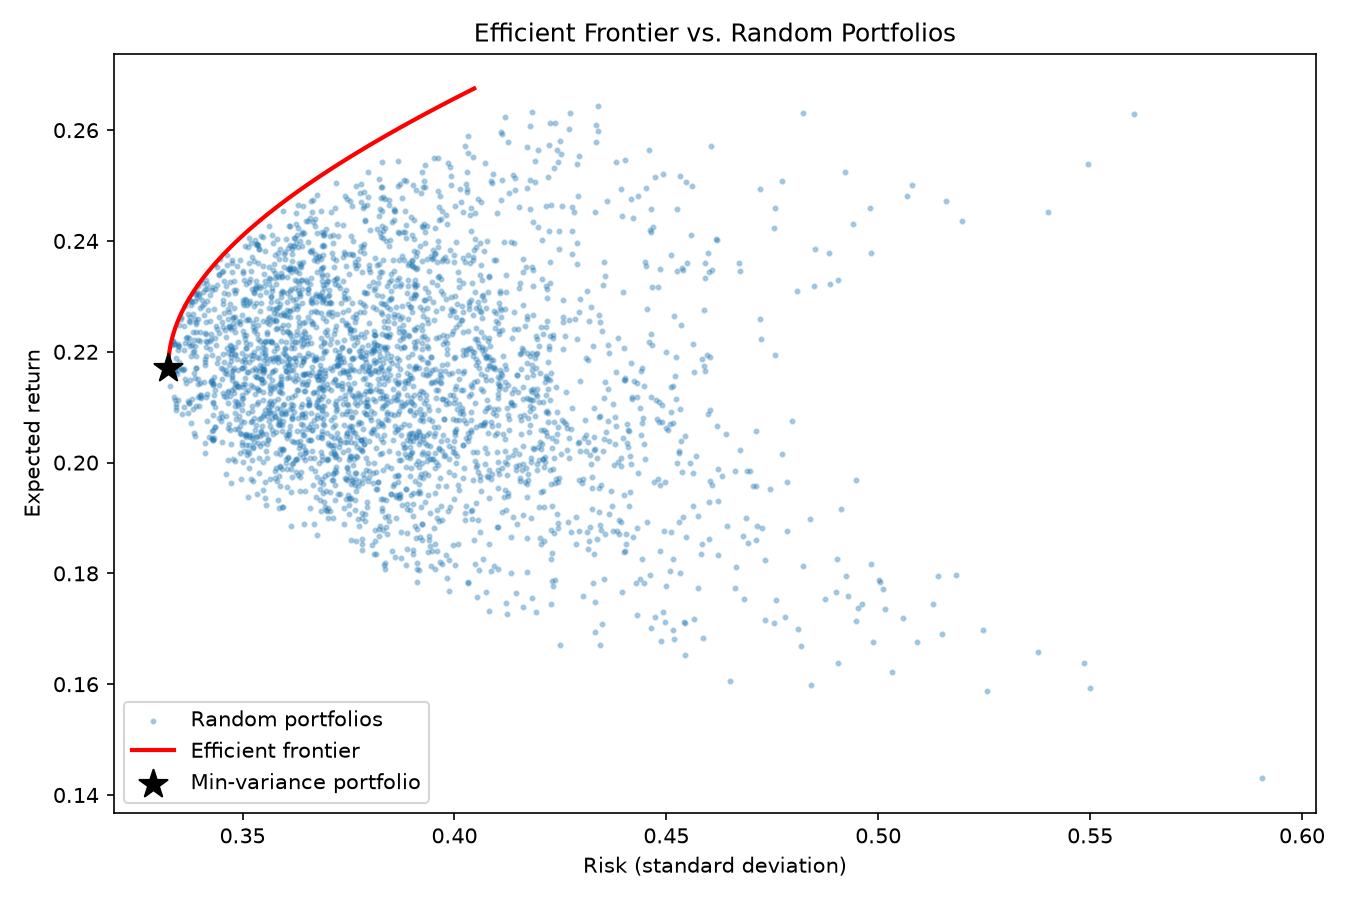
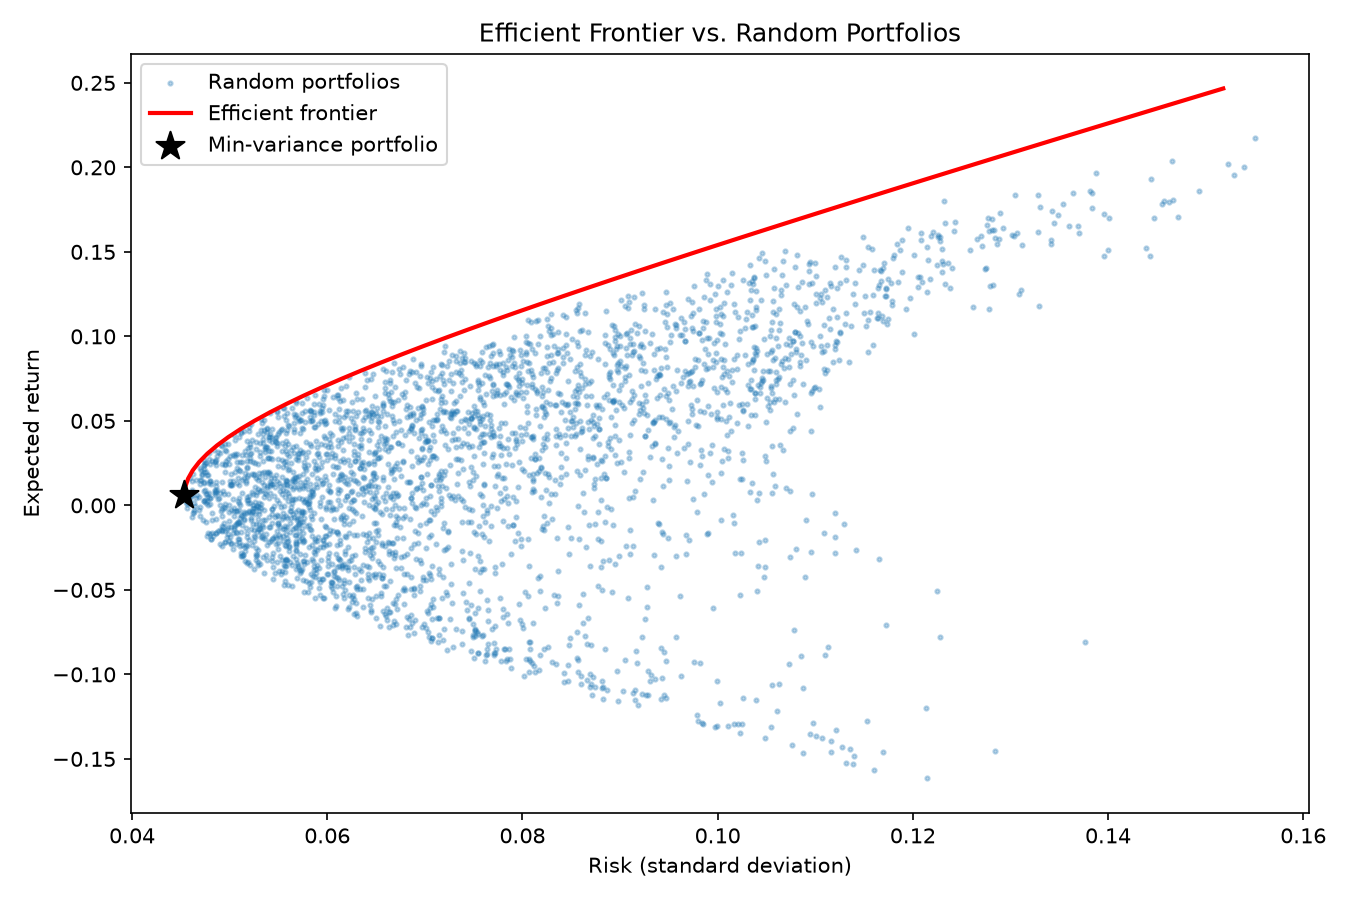
Refactor README and implement backtesting functionality
- Updated README for clarity and consistency in terminology.
- Added backtesting and rolling backtesting features in main.py.
- Introduced backtest.py for backtesting optimal weights against naive strategy.
- Renamed optimizer.py to optimiser.py for consistency with British English.
- Added efficient_frontier.png and rolling_backtest.png for visual representation of results.

diff --git a/portfolio/backtest.py b/portfolio/backtest.py
@@ -1,0 +1,146 @@
+"""
+backtest.py
+
+The other files in this program help us choose the optimal weights
+given my and Sigma. This file helps us backtest the optimal weights
+based on data the optimiser never uses.
+
+The backtest finds mu and Sigma from one window (training), then 
+applies the optimal weights to a later window (test) that the optimiser
+has not accessed. This allows us to check whether previously "optimal" 
+weights still work going forward.
+"""
+
+import numpy as np
+
+from portfolio.stats import compute_returns, expected_returns, covariance_matrix
+from portfolio.optimiser import min_variance_portfolio
+
+
+def backtest(prices, train_days=250, test_days=60):
+    """
+    Fits Sigma on a training window, computes the global min-variance
+    weights from it , then applies those FIXED weights to a later, held-out 
+    test window and compares realised performance against a naive equal-weight 
+    portfolio.
+
+    prices: DataFrame of prices (rows = dates, columns = assets),
+        must have at least train_days + test_days + 1 rows (the +1
+        is because compute_returns drops the first day).
+    train_days, test_days: length of the fit window and the
+        held-out evaluation window, in trading days.
+
+    Returns a dict of realised daily mean return and volatility
+    (standard deviation) for both the optimised and naive portfolios
+    over the test window, plus the fitted weights themselves.
+    """
+    returns = compute_returns(prices)
+
+    if len(returns) < train_days + test_days:
+        raise ValueError(
+            f"Not enough data: need {train_days + test_days} days of "
+            f"returns, got {len(returns)}."
+        )
+
+    train = returns.iloc[:train_days]
+    test = returns.iloc[train_days:train_days + test_days]
+
+    cov = covariance_matrix(train, annualize=False)
+    w_opt = min_variance_portfolio(cov)
+
+    n = cov.shape[0]
+    w_naive = np.ones(n) / n  # naive equal-weight baseline, no fitting at all
+
+    # Apply the FIXED weights (from train) to each day of the test
+    # window's actual realised returns: test.values is (test_days,
+    # n_assets), so this matrix-vector product gives one realised
+    # portfolio return per test day, for both naive and "optimal"
+    # strategies.
+    opt_daily = test.values @ w_opt
+    naive_daily = test.values @ w_naive
+
+    return {
+        "weights_optimised": w_opt,
+        "weights_naive": w_naive,
+        "optimised_mean_return": opt_daily.mean(),
+        "optimised_volatility": opt_daily.std(),
+        "naive_mean_return": naive_daily.mean(),
+        "naive_volatility": naive_daily.std(),
+    }
+
+
+def rolling_backtest(prices, train_days=250, test_days=60, step_days=None):
+    """
+    Repeats backtest()'s train/test idea many times, sliding both
+    windows forward through the whole price history.
+
+    step_days: how far to slide forward between windows. Defaults to
+        test_days, which gives non-overlapping test windows -- each
+        day of realised return is used in exactly one window's
+        evaluation, never double-counted.
+
+    Returns a list of per-window dicts, each with the window's start
+    index and its realised daily return series for both strategies
+    (test_days-long arrays) -- summarise_rolling_backtest() turns
+    this into aggregate numbers and cumulative growth curves.
+    """
+    step_days = step_days or test_days
+    returns = compute_returns(prices)
+    n_total = len(returns)
+
+    windows = []
+    start = 0
+    while start + train_days + test_days <= n_total:
+        train = returns.iloc[start:start + train_days]
+        test = returns.iloc[start + train_days:start + train_days + test_days]
+
+        cov = covariance_matrix(train, annualize=False)
+        w_opt = min_variance_portfolio(cov)
+        n = cov.shape[0]
+        w_naive = np.ones(n) / n
+
+        windows.append({
+            "start": start,
+            "opt_daily": test.values @ w_opt,
+            "naive_daily": test.values @ w_naive,
+        })
+        start += step_days
+
+    if not windows:
+        raise ValueError(
+            "Not enough data for even one window: need at least "
+            f"{train_days + test_days} days of returns, got {n_total}."
+        )
+    return windows
+
+
+def summarise_rolling_backtest(windows):
+    """
+    Aggregates rolling_backtest()'s per-window results into overall
+    statistics and cumulative growth curves.
+
+    optimised_win_rate: fraction of windows where the optimised
+        portfolio's mean daily return beat the naive one's
+
+    opt_cumulative / naive_cumulative: growth of $1 invested at the
+        very start, stepping through every test-window day in order
+        (concatenated across all windows) -- this is what a growth
+        chart over the whole out-of-sample period would plot.
+    """
+    opt_all = np.concatenate([w["opt_daily"] for w in windows])
+    naive_all = np.concatenate([w["naive_daily"] for w in windows])
+
+    win_rate = np.mean([
+        w["opt_daily"].mean() > w["naive_daily"].mean() for w in windows
+    ])
+
+    return {
+        "n_windows": len(windows),
+        "optimised_mean_return": opt_all.mean(),
+        "optimised_volatility": opt_all.std(),
+        "naive_mean_return": naive_all.mean(),
+        "naive_volatility": naive_all.std(),
+        "optimised_win_rate": win_rate,
+        "opt_cumulative": np.cumprod(1 + opt_all),
+        "naive_cumulative": np.cumprod(1 + naive_all),
+    }

diff --git a/main.py b/main.py
@@ -13,16 +13,17 @@ import matplotlib.pyplot as plt
 from portfolio.data import simulate_prices
 from portfolio.data import load_prices
 from portfolio.stats import compute_returns, expected_returns, covariance_matrix
-from portfolio.optimizer import (
+from portfolio.optimiser import (
     min_variance_portfolio,
     efficient_frontier,
     random_portfolios,
     portfolio_return,
     portfolio_variance,
 )
+from portfolio.backtest import backtest, rolling_backtest, summarise_rolling_backtest
 
 # ---- 1. get price data ----
-prices = simulate_prices(n_assets=4, n_days=500)
+prices = simulate_prices(n_assets=4, n_days=600)
 # prices = load_prices(["COP", "BJRI", "EVH", "PLMR"], start="2020-01-01", end="2026-07-01")
 
 # ---- 2. process raw data ----
@@ -34,7 +35,7 @@ print("Assets:", list(prices.columns))
 print("Expected annual returns:", np.round(mu, 4))
 print()
 
-# ---- 3. run the optimizer ----
+# ---- 3. run the optimiser ----
 w_minvar = min_variance_portfolio(cov)
 print("Minimum-variance portfolio weights:", np.round(w_minvar, 4))
 print("  -> expected return:", round(portfolio_return(w_minvar, mu), 4))
@@ -64,3 +65,39 @@ plt.legend()
 plt.tight_layout()
 plt.savefig("efficient_frontier.png", dpi=150)
 print("Saved plot to efficient_frontier.png")
+
+# ---- 5. backtest ----
+result = backtest(prices, train_days=250, test_days=60)
+print()
+print("Backtest (train on first 250 days, test on next 60 days):")
+print("  Optimised -> mean daily return:", round(result["optimised_mean_return"], 6),
+      " volatility:", round(result["optimised_volatility"], 6))
+print("  Naive     -> mean daily return:", round(result["naive_mean_return"], 6),
+      " volatility:", round(result["naive_volatility"], 6))
+
+# ---- 6. rolling backtest ----
+windows = rolling_backtest(prices, train_days=250, test_days=60)
+summary = summarise_rolling_backtest(windows)
+
+print()
+print(
+    f"Rolling backtest ({summary['n_windows']} windows, 250-day train / 60-day test):")
+print("  Optimised -> mean daily return:", round(summary["optimised_mean_return"], 6),
+      " volatility:", round(summary["optimised_volatility"], 6))
+print("  Naive     -> mean daily return:", round(summary["naive_mean_return"], 6),
+      " volatility:", round(summary["naive_volatility"], 6))
+print("  Optimised beat naive in", round(summary["optimised_win_rate"] * 100, 1),
+      "% of windows")
+
+plt.figure(figsize=(9, 6))
+plt.plot(summary["opt_cumulative"],
+         label="Optimised (min-variance)", color="red")
+plt.plot(summary["naive_cumulative"],
+         label="Naive (equal-weight)", color="gray")
+plt.xlabel("Trading day (out-of-sample, concatenated across windows)")
+plt.ylabel("Growth of $1")
+plt.title("Rolling Backtest: Optimised vs. Naive, Out-of-Sample")
+plt.legend()
+plt.tight_layout()
+plt.savefig("rolling_backtest.png", dpi=150)
+print("Saved plot to rolling_backtest.png")

diff --git a/portfolio/optimiser.py b/portfolio/optimiser.py
@@ -1,5 +1,5 @@
 """
-optimizer.py
+optimiser.py
 
 The actual Markowitz mean-variance math -- solved in closed form via
 matrix algebra (Lagrange multipliers). Solve for optimum by inverting the matrix.
@@ -105,7 +105,7 @@ def efficient_frontier(mu, cov, n_points=50):
 
 def random_portfolios(mu, cov, n_portfolios=2000, seed=42):
     """
-    Randomly sampled (not optimized) portfolio weights, used purely for
+    Randomly sampled (not optimised) portfolio weights, used purely for
     comparison. Plotting these alongside the efficient frontier is
     what makes the frontier's curved shape visually obvious: random
     portfolios form a cloud, and the frontier traces its upper-left

diff --git a/portfolio/__init__.py b/portfolio/__init__.py
@@ -1,2 +1,1 @@
-# marks portfolio/ as an importable package -- same role __init__.py played
-# in the micrograd project.
+# initialise

diff --git a/README.md b/README.md
@@ -1,21 +1,20 @@
 # Markowitz Portfolio Optimization
 
-Closed-form mean-variance portfolio optimization, following Harry
+Closed-form mean-variance portfolio optimisation, following Harry
 Markowitz's 1952 "Portfolio Selection" -- solved via matrix algebra
 (Lagrange multipliers), not an iterative solver.
 
 ## Structure
 
 - `portfolio/data.py` -- load real prices (`yfinance`) or generate
-  synthetic prices with a known correlation structure, for testing
-  the math without needing network access
+  synthetic prices with a predetermined correlation structure, for testing
+  the math without network access
 - `portfolio/stats.py` -- turn prices into returns, an expected-return
   vector, and a covariance matrix
-- `portfolio/optimizer.py` -- the actual Markowitz math: the global
-  minimum-variance portfolio, the efficient frontier (swept via the
-  two-fund separation closed form), and random portfolios for
-  comparison
-- `main.py` -- entry point: loads data, runs the optimizer, plots the
+- `portfolio/optimiser.py` -- the actual Markowitz math: the global
+  minimum-variance portfolio, the efficient frontier, and random portfolios
+  for comparison
+- `main.py` -- entry point: loads data, runs the optimiser, plots the
   efficient frontier against a cloud of random portfolios
 
 ## Setup
@@ -37,15 +36,18 @@ supply real tickers -- requires `yfinance` and an internet connection.
 
 ## What to expect
 
+![efficient_frontier_graph](efficient_frontier.png)
+
 `efficient_frontier.png` shows the classic Markowitz picture: a cloud
 of randomly-weighted portfolios, and a curved red line (the efficient
 frontier) tracing its upper-left boundary -- the best possible
 risk/return trade-off achievable from this set of assets. The black
 star marks the global minimum-variance portfolio.
 
-## Validated against an independent solver
+## Backtesting
 
-The closed-form weights in `optimizer.py` were checked against
-`scipy.optimize.minimize`'s numerical constrained solver on a known
-test case and matched to 4 decimal places -- see the project's
-development notes for the verification script.
+![rolling_backtest](rolling_backtest.png)
+
+'rolling_backtest.png' shows the results of backtesting the optimally
+weighted solution against a 1/N weighted strategy (portfolio is divided
+equally into each asset). Testing showed that the optimal portfolio' returns outperformed the naive solution 80% of the time.
